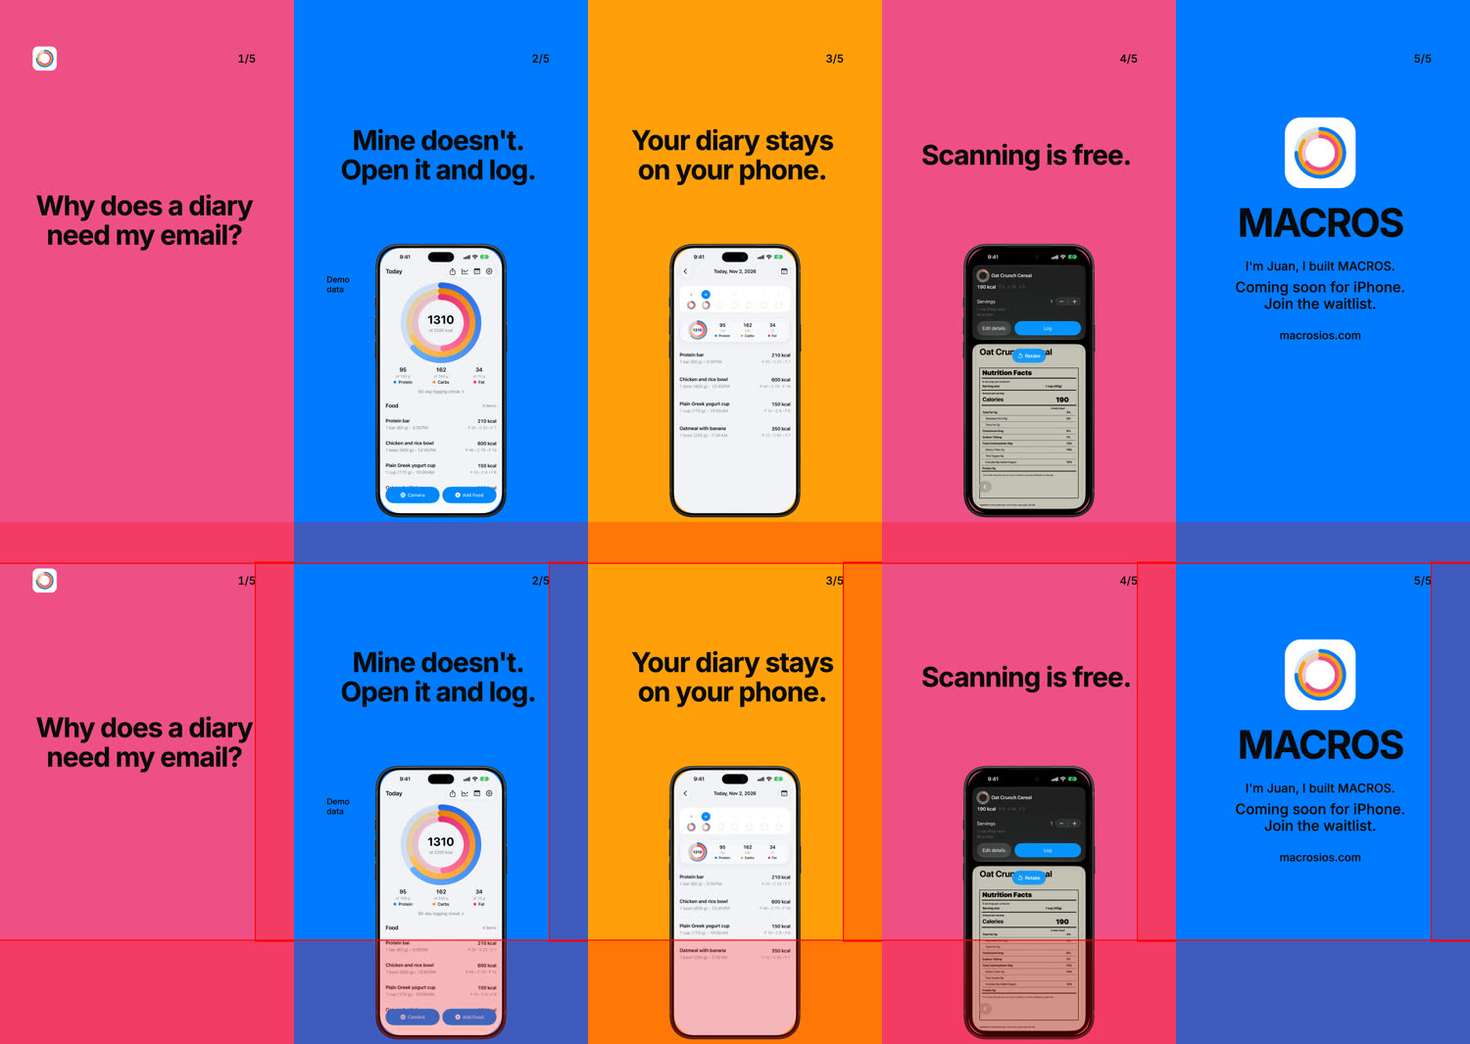
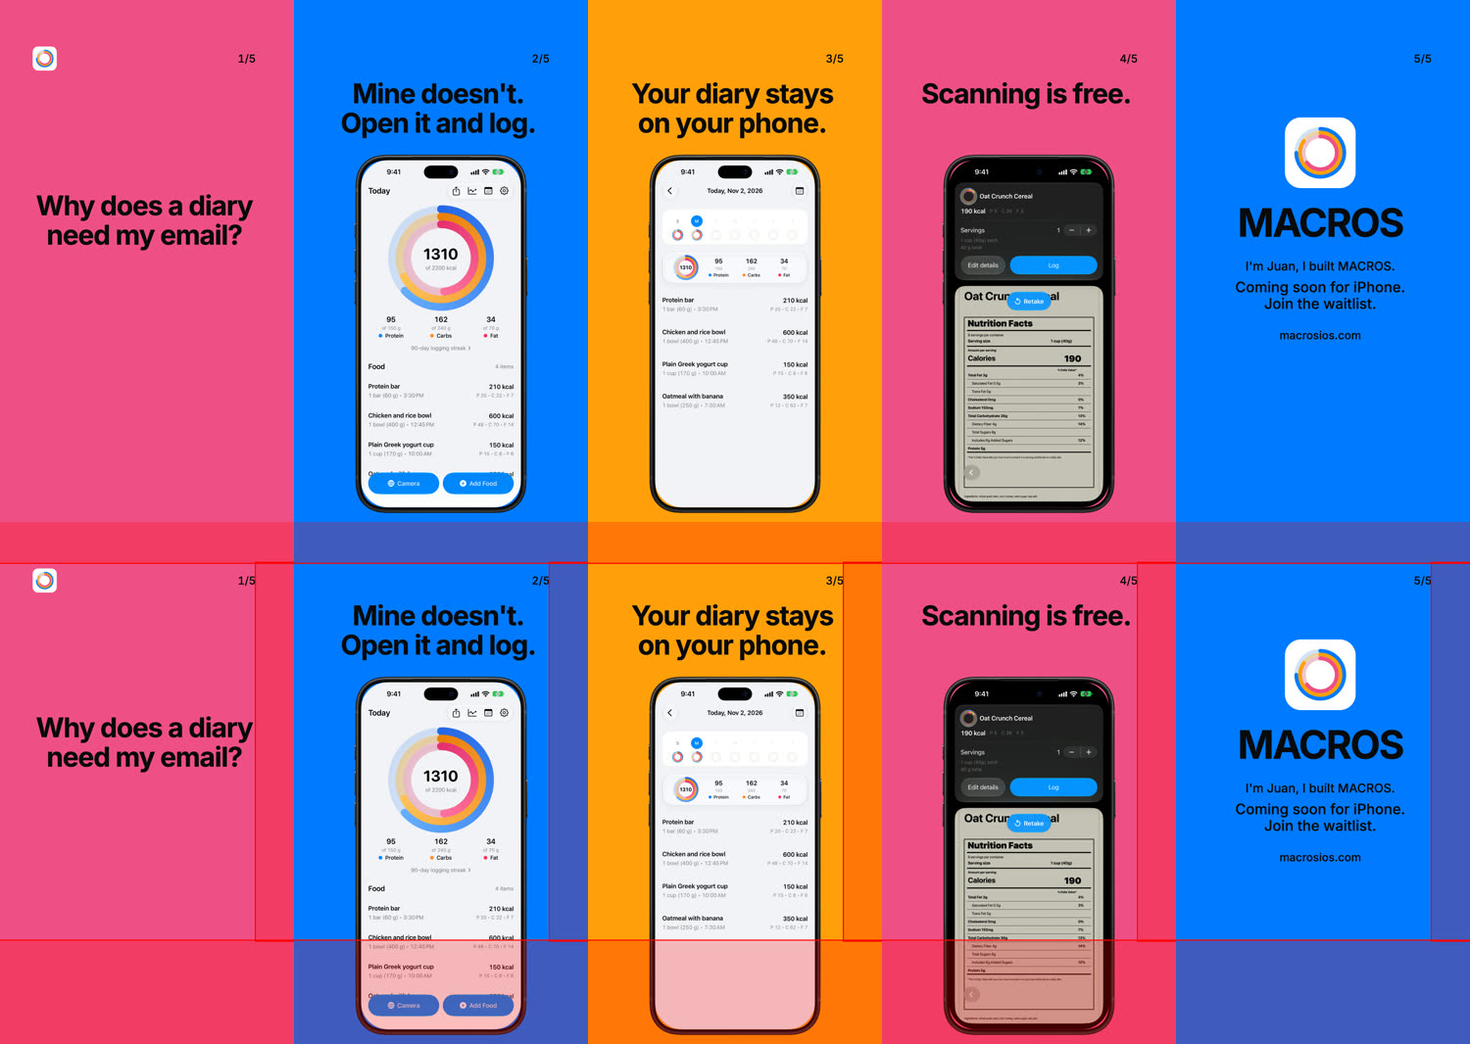
fix(slides): drop demo label, larger phone
Remove the "Demo data" label and its flag from the TikTok slides. Make the phone bigger on slides that have one (scale 0.4453, top y 560, ends 24 px above the bottom edge), and move the headline block up to y 290. The icon and marker row, the set 3 slide 1 and the CTA slides are unchanged. Render only the short variant and replace the evidence sheets with five per-set JPGs.

diff --git a/tools/media/trailer/src/slides.ts b/tools/media/trailer/src/slides.ts
@@ -11,8 +11,6 @@ export type Slide = {
   short?: string; // used for copy 'short' when set, otherwise the headline is used
   color: string;
   screenshot?: Screenshot;
-  /** Shows the small "Demo data" label beside the phone. */
-  demo?: boolean;
   /** Line above the CTA on the last slide. */
   intro?: string;
 };
@@ -26,41 +24,41 @@ export const SITE = "macrosios.com";
 const ring = [COLORS.protein, COLORS.carbs, COLORS.fat];
 
 /** Ring colours rotate: slide i of set n uses colour (n - 1 + i) mod 3, so neighbouring slides never match. */
-function set(n: number, slug: string, title: string, rows: [string, Screenshot?, boolean?, string?][], caption: string, hashtags: string[], intro?: string): SlideSet {
-  const slides = rows.map(([headline, screenshot, demo, short], i): Slide => ({ headline, short, screenshot, demo, color: ring[(n - 1 + i) % 3] }));
+function set(n: number, slug: string, title: string, rows: [string, Screenshot?, string?][], caption: string, hashtags: string[], intro?: string): SlideSet {
+  const slides = rows.map(([headline, screenshot, short], i): Slide => ({ headline, short, screenshot, color: ring[(n - 1 + i) % 3] }));
   slides.push({ headline: "", color: ring[(n - 1 + rows.length) % 3], intro });
   return { slug, title, slides, caption, hashtags };
 }
 
 export const SETS: SlideSet[] = [
   set(1, "protein-math", "Protein math", [
-    ["I stopped doing protein math in my head.", "app-home", true, "No more protein math."],
+    ["I stopped doing protein math in my head.", "app-home", "No more protein math."],
     ["Scan the label.", "app-scan-review"],
     ["Half the bag? Make it half.", "app-scan-details"],
-    ["Protein's right there.", "app-home", true],
+    ["Protein's right there.", "app-home"],
   ], "I got tired of adding up protein in my head, so I built an app that reads the label and keeps the total. Coming soon for iPhone.", ["#ProteinTracking", "#FoodDiary", "#GymTok", "#MACROSapp"]),
   set(2, "serving-on-the-box", "The serving on the box", [
-    ["\"Serving size\" isn't how much you ate.", "app-scan-review", undefined, "\"Serving size\" isn't your portion."],
+    ["\"Serving size\" isn't how much you ate.", "app-scan-review", "\"Serving size\" isn't your portion."],
     ["Eight servings. In this one box.", "app-scan-review"],
-    ["Scan it, then log what you actually had.", "app-scan-details", undefined, "Log what you actually ate."],
-    ["Then sit down and eat.", "app-home", true],
+    ["Scan it, then log what you actually had.", "app-scan-details", "Log what you actually ate."],
+    ["Then sit down and eat.", "app-home"],
   ], "A nutrition label lists one serving, and a box can hold eight. MACROS scans the label, then you log the amount you had. Coming soon for iPhone.", ["#NutritionLabels", "#FoodLogging", "#MacroTracking", "#MACROSapp"]),
   set(3, "why-my-email", "Why my email?", [
-    ["Why does a food diary need my email?", undefined, undefined, "Why does a diary need my email?"],
-    ["Mine doesn't. Open it and log.", "app-home", true],
+    ["Why does a food diary need my email?", undefined, "Why does a diary need my email?"],
+    ["Mine doesn't. Open it and log.", "app-home"],
     ["Your diary stays on your phone.", "app-history"],
     ["Scanning is free.", "app-scan-review"],
   ], "I built MACROS so you can log food without making an account. Your diary stays on your phone. Coming soon for iPhone.", ["#FoodDiary", "#IndieApp", "#iPhoneApps", "#MACROSapp"], "I'm Juan, I built MACROS."),
   set(4, "breakfast-at-your-desk", "Breakfast at your desk", [
-    ["Breakfast again. First meeting in five minutes.", "app-add-food", undefined, "Breakfast. Meeting in five."],
+    ["Breakfast again. First meeting in five minutes.", "app-add-food", "Breakfast. Meeting in five."],
     ["Same yogurt as yesterday.", "app-add-food"],
     ["There it is.", "app-add-food"],
-    ["Log it. Close the laptop lid.", "app-home", true],
+    ["Log it. Close the laptop lid.", "app-home"],
   ], "Same breakfast most mornings, so logging it should take a few taps. Coming soon for iPhone.", ["#Breakfast", "#FoodDiary", "#iPhoneApps", "#MACROSapp"]),
   set(5, "before-dinner", "Before dinner", [
-    ["Wait, where am I on protein?", "app-home", true],
-    ["Dinner's nearly ready.", "app-home", true],
-    ["One glance at my phone.", "home-clean", true],
-    ["Right. Now I know.", "home-clean", true],
+    ["Wait, where am I on protein?", "app-home"],
+    ["Dinner's nearly ready.", "app-home"],
+    ["One glance at my phone.", "home-clean"],
+    ["Right. Now I know.", "home-clean"],
   ], "A widget on the Home Screen shows where I am on protein before I cook dinner. Coming soon for iPhone.", ["#ProteinTracking", "#iPhoneWidgets", "#FoodDiary", "#MACROSapp"]),
 ];

diff --git a/tools/media/trailer/scripts/slide-sheets.ts b/tools/media/trailer/scripts/slide-sheets.ts
@@ -1,23 +1,18 @@
 // Contact sheets for the TikTok slideshows: bun run sheets:slides
-// A sheet shows one set in one variant: the five slides at 300 px wide, with the same five below under the TikTok zone outlines.
-// Renders the safe-zone copies itself. Every sheet goes to build/marketing/tiktok-compare/ (not tracked). The tracked evidence in
-// docs/evidence/tiktok-slides/ is five images: the short sheets for sets 2, 3 and 5, and compare-set<n>.jpg for sets 1 and 4
-// (short rows above full rows, each variant with and without the zones).
+// One sheet per set in the short variant: the five slides at 300 px wide, with the same five below under the TikTok zone outlines.
+// Renders the safe-zone copies itself. The five sheets go to docs/evidence/tiktok-slides/ (tracked, five JPGs).
 import { mkdirSync } from "node:fs";
-import { TIKTOK_DIRS, fromRoot, run } from "./paths.ts";
-import { SETS, type Copy } from "../src/slides.ts";
+import { TIKTOK_DIR, fromRoot, run } from "./paths.ts";
+import { SETS } from "../src/slides.ts";
 
-const COMPARE = fromRoot("build/marketing/tiktok-compare");
 const EVIDENCE = fromRoot("docs/evidence/tiktok-slides");
 const WIDTH = 300;
-const COPIES: Copy[] = ["short", "full"];
-const SHORT_ONLY = [2, 3, 5];
 
 run(["bun", "scripts/render-slides.ts", "--safe-zones"]);
 
-/** Slide paths of one set in one variant, from the normal render or the zone review copies. */
-const slidePaths = (copy: Copy, n: number, review: boolean) => {
-  const root = review ? `${TIKTOK_DIRS[copy]}/review` : TIKTOK_DIRS[copy];
+/** Slide paths of one set in the short variant, from the normal render or the zone review copies. */
+const slidePaths = (n: number, review: boolean) => {
+  const root = review ? `${TIKTOK_DIR}/review` : TIKTOK_DIR;
   return SETS[n - 1].slides.map((_, i) => `${root}/set-${n}-${SETS[n - 1].slug}/${i + 1}.png`);
 };
 
@@ -32,16 +27,8 @@ const sheet = (rows: string[][], out: string) => {
   run(["ffmpeg", "-hide_banner", "-loglevel", "error", ...inputs, "-filter_complex", filter, "-map", "[out]", "-q:v", "4", "-frames:v", "1", "-y", out]);
 };
 
-mkdirSync(COMPARE, { recursive: true });
 mkdirSync(EVIDENCE, { recursive: true });
 SETS.forEach((set, s) => {
   const n = s + 1;
-  const folder = `set-${n}-${set.slug}`;
-  COPIES.forEach((copy) => sheet([slidePaths(copy, n, false), slidePaths(copy, n, true)], `${COMPARE}/${folder}-${copy}.jpg`));
-  if (SHORT_ONLY.includes(n)) {
-    sheet([slidePaths("short", n, false), slidePaths("short", n, true)], `${EVIDENCE}/${folder}.jpg`);
-  } else {
-    const rows = COPIES.flatMap((copy) => [slidePaths(copy, n, false), slidePaths(copy, n, true)]);
-    sheet(rows, `${EVIDENCE}/compare-set${n}.jpg`);
-  }
+  sheet([slidePaths(n, false), slidePaths(n, true)], `${EVIDENCE}/set-${n}-${set.slug}.jpg`);
 });

diff --git a/tools/media/trailer/scripts/render-slides.ts b/tools/media/trailer/scripts/render-slides.ts
@@ -1,9 +1,8 @@
-// Renders the TikTok slideshows in both headline variants, plus avatar and captions: bun run render:slides [--safe-zones]
-// Output: build/marketing/tiktok/ (copy 'short') and build/marketing/tiktok-full/ (copy 'full'), each with
-// set-<n>-<slug>/<i>.png, avatar.png, captions.md. --safe-zones writes review/ instead, with the TikTok zones outlined.
+// Renders the TikTok slideshows (short headlines), plus avatar and captions: bun run render:slides [--safe-zones]
+// Output: build/marketing/tiktok/ with set-<n>-<slug>/<i>.png, avatar.png, captions.md. --safe-zones writes review/ instead, with the TikTok zones outlined.
 import { copyFileSync, mkdirSync, writeFileSync } from "node:fs";
-import { PUBLIC_SOURCES, TIKTOK_DIRS, fromRoot, run } from "./paths.ts";
-import { SETS, SITE, type Copy } from "../src/slides.ts";
+import { PUBLIC_SOURCES, TIKTOK_DIR, fromRoot, run } from "./paths.ts";
+import { SETS, SITE } from "../src/slides.ts";
 
 const SCREENS_SRC = fromRoot("web/src/assets/app-images");
 const SCREENS_DEST = fromRoot("tools/media/trailer/public/screens");
@@ -21,18 +20,15 @@ for (const name of new Set(SETS.flatMap((s) => s.slides.map((slide) => slide.scr
   if (name) copyFileSync(screenFile(name), `${SCREENS_DEST}/${name}.png`);
 }
 
-for (const copy of Object.keys(TIKTOK_DIRS) as Copy[]) {
-  const out = TIKTOK_DIRS[copy];
-  const dir = safeZones ? `${out}/review` : out;
-  SETS.forEach((set, s) => {
-    const setDir = `${dir}/set-${s + 1}-${set.slug}`;
-    mkdirSync(setDir, { recursive: true });
-    set.slides.forEach((_, i) => still("Slide", `${setDir}/${i + 1}.png`, { set: s + 1, index: i + 1, safeZones, copy }));
-  });
+const dir = safeZones ? `${TIKTOK_DIR}/review` : TIKTOK_DIR;
+SETS.forEach((set, s) => {
+  const setDir = `${dir}/set-${s + 1}-${set.slug}`;
+  mkdirSync(setDir, { recursive: true });
+  set.slides.forEach((_, i) => still("Slide", `${setDir}/${i + 1}.png`, { set: s + 1, index: i + 1, safeZones, copy: "short" }));
+});
 
-  if (!safeZones) {
-    still("Avatar", `${out}/avatar.png`, {});
-    const captions = SETS.map((set, s) => `## Set ${s + 1}: ${set.title}\n\n${set.caption}\nhttps://${SITE}\n\n${set.hashtags.join(" ")}\n`);
-    writeFileSync(`${out}/captions.md`, `# TikTok captions\n\n${captions.join("\n")}`);
-  }
+if (!safeZones) {
+  still("Avatar", `${TIKTOK_DIR}/avatar.png`, {});
+  const captions = SETS.map((set, s) => `## Set ${s + 1}: ${set.title}\n\n${set.caption}\nhttps://${SITE}\n\n${set.hashtags.join(" ")}\n`);
+  writeFileSync(`${TIKTOK_DIR}/captions.md`, `# TikTok captions\n\n${captions.join("\n")}`);
 }

diff --git a/tools/media/trailer/src/slide.tsx b/tools/media/trailer/src/slide.tsx
@@ -13,6 +13,11 @@ const SAFE = { top: 150, bottom: 380, right: 140, left: 120 };
 // One size per variant, the largest that keeps every headline within its line limit (see docs/evidence/tiktok-slides/README.md).
 const HEADLINE_SIZE: Record<Copy, number> = { short: 100, full: 105 };
 const column: React.CSSProperties = { position: "absolute", left: SAFE.left, width: 1080 - SAFE.right - SAFE.left, textAlign: "center" };
+// Phone slides: the headline block starts at y 290, about 70 px under the marker's baseline (y 233). The bezel starts about 52 px
+// under the tallest two-line headline (ink to y 507), and its scale is the largest that ends 24 px above the bottom edge: (1920 - 24 - 560) / 3000.
+const PHONE_HEADLINE_TOP = 290;
+const PHONE_TOP = 560;
+const PHONE_SCALE = 0.4453;
 
 const Zones: React.FC = () => {
   const zone: React.CSSProperties = { position: "absolute", background: "rgba(255,0,0,0.25)", outline: "4px solid #FF0000" };
@@ -43,11 +48,10 @@ export const Slide: React.FC<SlideProps> = ({ set, index, safeZones, copy }) => 
       <div style={{ fontSize: 40, fontWeight: 500, fontVariantNumeric: "tabular-nums" }}>{index}/{slides.length}</div>
     </div>
     {!isEnd && <>
-      <div style={{ ...column, top: 300, height: slide.screenshot ? 540 : 1020, display: "flex", alignItems: "center", justifyContent: "center" }}>
+      <div style={slide.screenshot ? { ...column, top: PHONE_HEADLINE_TOP } : { ...column, top: 300, height: 1020, display: "flex", alignItems: "center", justifyContent: "center" }}>
         <div style={{ fontSize: HEADLINE_SIZE[copy], fontWeight: 700, letterSpacing: "-0.03em", lineHeight: 1.08, textWrap: "balance" }}>{headline}</div>
       </div>
-      {slide.screenshot && <Phone><Img src={staticFile(`screens/${slide.screenshot}.png`)} style={{ width: "100%", height: "100%", objectFit: "cover" }} /></Phone>}
-      {slide.demo && <div style={{ position: "absolute", left: SAFE.left, top: STYLE.deviceTop + 120, width: 150, fontSize: 30, fontWeight: 500, lineHeight: 1.2 }}>Demo data</div>}
+      {slide.screenshot && <Phone top={PHONE_TOP} scale={PHONE_SCALE}><Img src={staticFile(`screens/${slide.screenshot}.png`)} style={{ width: "100%", height: "100%", objectFit: "cover" }} /></Phone>}
     </>}
     {isEnd && <EndSlide intro={slide.intro} />}
     {safeZones && <Zones />}

diff --git a/tools/media/trailer/src/media.tsx b/tools/media/trailer/src/media.tsx
@@ -30,11 +30,10 @@ const Screen: React.FC<{ shot: DeviceShot; fadesIn: boolean }> = ({ shot, fadesI
  * the previous one inside the screen opening: the incoming screen fades in on top of the outgoing one, which stays opaque.
  * The phone ends at the last device shot's cut; after it only the colour disc is on screen.
  */
-export const Phone: React.FC<{ children: React.ReactNode }> = ({ children }) => {
-  const s = STYLE.deviceScale;
-  const width = BEZEL.w * s;
-  return <div style={{ position: "absolute", left: (1080 - width) / 2, top: STYLE.deviceTop, width, height: BEZEL.h * s }}>
-    <div style={{ position: "absolute", left: BEZEL.screenX * s, top: BEZEL.screenY * s, width: BEZEL.screenW * s, height: BEZEL.screenH * s, borderRadius: BEZEL.screenRadius * s, overflow: "hidden", background: "#000" }}>
+export const Phone: React.FC<{ children: React.ReactNode; top?: number; scale?: number }> = ({ children, top = STYLE.deviceTop, scale = STYLE.deviceScale }) => {
+  const width = BEZEL.w * scale;
+  return <div style={{ position: "absolute", left: (1080 - width) / 2, top, width, height: BEZEL.h * scale }}>
+    <div style={{ position: "absolute", left: BEZEL.screenX * scale, top: BEZEL.screenY * scale, width: BEZEL.screenW * scale, height: BEZEL.screenH * scale, borderRadius: BEZEL.screenRadius * scale, overflow: "hidden", background: "#000" }}>
       {children}
     </div>
     <Img src={staticFile("bezel.png")} style={{ position: "absolute", inset: 0, width: "100%", height: "100%" }} />

diff --git a/tools/media/trailer/scripts/paths.ts b/tools/media/trailer/scripts/paths.ts
@@ -1,11 +1,10 @@
 import { spawnSync } from "node:child_process";
 import { fileURLToPath } from "node:url";
-import type { Copy } from "../src/slides.ts";
 
 export const fromRoot = (path: string) => fileURLToPath(new URL(`../../../../${path}`, import.meta.url));
 
-/** The TikTok slideshow renders, one folder per headline variant. */
-export const TIKTOK_DIRS: Record<Copy, string> = { short: fromRoot("build/marketing/tiktok"), full: fromRoot("build/marketing/tiktok-full") };
+/** The TikTok slideshow renders (short headlines). */
+export const TIKTOK_DIR = fromRoot("build/marketing/tiktok");
 
 export const REPO_ROOT = fromRoot("");
 export const OUT_DIR = fromRoot("build/marketing/trailer");

diff --git a/docs/evidence/tiktok-slides/README.md b/docs/evidence/tiktok-slides/README.md
@@ -1,39 +1,45 @@
 # TikTok photo slideshows
 
-Five sets of five 1080 x 1920 stills per headline variant, and a 1080 x 1080 avatar, rendered from `tools/media/trailer/` with `bun run render:slides`. The PNGs are not tracked: `build/marketing/tiktok/` holds the `short` variant (the default) and `build/marketing/tiktok-full/` holds `full`. Each JPG here is one sheet of five slides at 300 px wide. Regenerate with `bun run sheets:slides`.
+Five sets of five 1080 x 1920 stills with the short headlines, and a 1080 x 1080 avatar, rendered from `tools/media/trailer/` with `bun run render:slides`. The PNGs are not tracked: they are in `build/marketing/tiktok/`. Each JPG here is one sheet for one set: the five slides at 300 px wide, with the same five below under the TikTok zone outlines. Regenerate with `bun run sheets:slides`.
 
-Two headline variants:
+Headlines are the shorter `short` set in `src/slides.ts`, one size (100 px) across all slides, at most two lines.
 
-- `short`: the shorter headlines in `src/slides.ts`, one size (100 px) across all slides, at most two lines.
-- `full`: the original headlines, one size (105 px) across all slides, at most three lines.
-
-Tracked sheets (five images, about 1.5 MB, under the 2 MiB limit):
+Tracked sheets (five images, under the 2 MiB limit):
 
 | Sheet | Shows |
 | --- | --- |
-| `set-2-serving-on-the-box.jpg` | Serving on the box, short; top row normal, bottom row with TikTok zones outlined |
-| `set-3-why-my-email.jpg` | Why my email?, short; same layout |
-| `set-5-before-dinner.jpg` | Before dinner, short; same layout |
-| `compare-set1.jpg` | Protein math, short (rows 1-2) above full (rows 3-4); each variant normal, then with zones |
-| `compare-set4.jpg` | Breakfast at your desk, short (rows 1-2) above full (rows 3-4); same order |
+| `set-1-protein-math.jpg` | Protein math |
+| `set-2-serving-on-the-box.jpg` | The serving on the box |
+| `set-3-why-my-email.jpg` | Why my email? (slide 1 has no phone) |
+| `set-4-breakfast-at-your-desk.jpg` | Breakfast at your desk |
+| `set-5-before-dinner.jpg` | Before dinner |
 
 The zone outlines are red: top 150 px, bottom 380 px, right 140 px.
 
+## Phone layout
+
+- The icon and the `n/5` marker are unchanged. The marker's baseline is at y 233.
+- The headline block starts at y 290. The headline ink starts at y 303 to 307, 74 px below the marker baseline.
+- Each phone slide has the bezel at y 560, 52 px below the lowest headline ink of the tallest two-line headline (y 507). Text never overlaps the bezel.
+- The bezel is scaled to 0.4453 of Apple's PNG (654.6 x 1335.9 px), centred horizontally. Its box is x 212.7 to 867.3, y 560 to 1895.9, so it stays 24 px inside the bottom edge. The black frame ends at y 1886 because the PNG has a transparent strip under the frame.
+- The phone extends into TikTok's bottom 380 px zone. No text is there.
+- Set 3 slide 1 (no phone) and the five CTA slides keep their layout.
+
 ## Checks
 
-- Every slide of both variants viewed in the sheets, including the zone copies.
-- All 50 normal-render stills are 1080 x 1920 and both avatars are 1080 x 1080 (`file`).
-- Headline sizes are the largest found that keep each variant within its line limit, measured from the rendered PNGs (ink in y 280-880 for slides with a phone, so the phone is never counted):
-  - `short` 100 px: every headline two lines or fewer; widest headline ink 804 px (set 2 slide 1). 102 px puts set 2 slide 1 on three lines. 101 px was not rendered.
-  - `full` 105 px: every headline three lines or fewer; widest headline ink 799 px (set 3 slide 4). 110 px puts set 4 slide 1 on four lines, and 120 px puts set 1 slide 1 and set 3 slide 1 on four lines. 106 to 109 px were not rendered.
-  - All headline ink sits inside x 120-940 and below y 150. The lowest headline ink on a slide with a phone ends by y 692; the phone starts at y 890, so the phone did not move.
-- Copy changes are only the five approved short headlines. The CTA slide, the screenshots, the "Demo data" flags and the captions are unchanged.
-- Claims against the screenshots and site (unchanged by the variants):
+- All 25 short stills are 1080 x 1920 (`ffprobe`).
+- Pixel measurements on the rendered PNGs (ink is any channel at or below 60):
+  - Icon and marker rows (y 150 to 265) are byte-identical to the previous render on all 25 slides.
+  - Set 3 slide 1 and the five CTA slides are byte-identical to the previous render, and so is the avatar.
+  - Each headline is one or two lines. On every phone slide, the headline ink ends above y 508, so none of it touches the bezel box (y 560 to 1896, x 213 to 867).
+  - The bezel box lies inside the 1080 x 1920 canvas.
+- Headline size is unchanged (100 px), and so are the line limits. The width checks from the earlier render still hold, since the words and size are the same.
+- Copy: the five approved short headlines are used. The "Demo data" label is removed from every slide, and the flag and its field are gone from `src/slides.ts`. Screenshots, captions and the CTA are unchanged.
+- Claims against the screenshots and site (unchanged):
   - "Eight servings. In this one box." `app-scan-review.png` shows "8 servings per container" on the label (zoomed to confirm; it is small in the 1320 px capture).
   - "Scanning is free." `web/src/data/site.ts` FAQ: logging, search, barcode and label scans are free; Pro is optional.
   - "Half the bag? Make it half." `app-scan-details.png` shows the Servings/Grams review; the servings stepper there steps 0.25.
   - "Mine doesn't. Open it and log." and "Your diary stays on your phone." match the FAQ ("You can log food without an account") and the on-device storage rule.
   - "Same yogurt as yesterday." and "There it is." sit on `app-add-food.png`, which shows a "greek yogurt" search with Plain Greek yogurt cup under On Device.
-- Slides showing calculator targets or Insights-like totals (Today ring, widgets) carry a "Demo data" label beside the phone.
 - Home Screen slides (set 5, slides 3-4) use `tools/media/trailer/public/sources/home-clean.png` (ignored), a still of the trailer's Home Screen after logging. It is frame 20.0 s of `build/marketing/trailer/sources/v3/flow-take1.mov` (the same take `home.mp4` is cut from, 17.6-22.6 s), 1320 x 2868. Checked by eye: only the MACROS icon and the MACROS widgets are visible. No third-party app icon, label, widget or shared-person widget. `app-widgets.png` was dropped because it shows third-party apps (Fitness, Watch, Files) and a shared-person widget, which Apple's marketing rules do not allow on a Home Screen shot.
 - CTA: the site has a waitlist form (`WaitlistForm.astro` on the home and about pages), so slide 5 reads "Coming soon for iPhone. Join the waitlist."

diff --git a/tools/media/trailer/README.md b/tools/media/trailer/README.md
@@ -20,16 +20,13 @@ Each MP4 is 1080 × 1920, 30 fps, 870 frames, h264 yuv420p, stereo AAC (silent).
 
 ## TikTok slideshows
 
-Five photo sets (25 stills per variant, 1080 x 1920) and a 1080 x 1080 `Avatar` still, same style as the trailer. Copy, colours, screenshots and the "Demo data" flag are one table in `src/slides.ts`; the `Slide` composition takes `set`, `index`, `safeZones` and `copy`. Screenshots come from `web/src/assets/app-images/` and are copied to the ignored `public/screens/` on render.
+Five photo sets (25 stills, 1080 x 1920) and a 1080 x 1080 `Avatar` still, same style as the trailer. Copy, colours and screenshots are one table in `src/slides.ts`; the `Slide` composition takes `set`, `index`, `safeZones` and `copy`. Screenshots come from `web/src/assets/app-images/` and are copied to the ignored `public/screens/` on render.
 
-Two headline variants, one size each across all slides of that variant (`HEADLINE_SIZE` in `src/slide.tsx`):
-
-- `short` (default, `build/marketing/tiktok/`): `Slide.short` headlines where set, otherwise the headline. Max two lines.
-- `full` (`build/marketing/tiktok-full/`): the full headlines. Max three lines.
+Only the `short` headlines are rendered: `Slide.short` where set, otherwise the headline, at one size (`HEADLINE_SIZE` in `src/slide.tsx`), max two lines. Slides with a screenshot put the headline block at y 290 and the phone at `top` 560 with `scale` 0.4453, so the bezel box ends 24 px above the bottom edge. Slide 1 of set 3 and the CTA slides have no phone.
 
 ```sh
-bun run render:slides   # both variants: build/marketing/tiktok{,-full}/set-<n>-<slug>/<i>.png, avatar.png, captions.md
-bun run sheets:slides   # build/marketing/tiktok-compare/ (per set, per variant) and the tracked docs/evidence/tiktok-slides/ images
+bun run render:slides   # build/marketing/tiktok/set-<n>-<slug>/<i>.png, avatar.png, captions.md
+bun run sheets:slides   # docs/evidence/tiktok-slides/set-<n>-<slug>.jpg (five tracked sheets)
 ```
 
 Slide 5 of each set is the end card: rings mark, MACROS, the CTA and macrosios.com, with no App Store badge until the app is live. Text stays out of TikTok's top 150 px, bottom 380 px and right 140 px.
